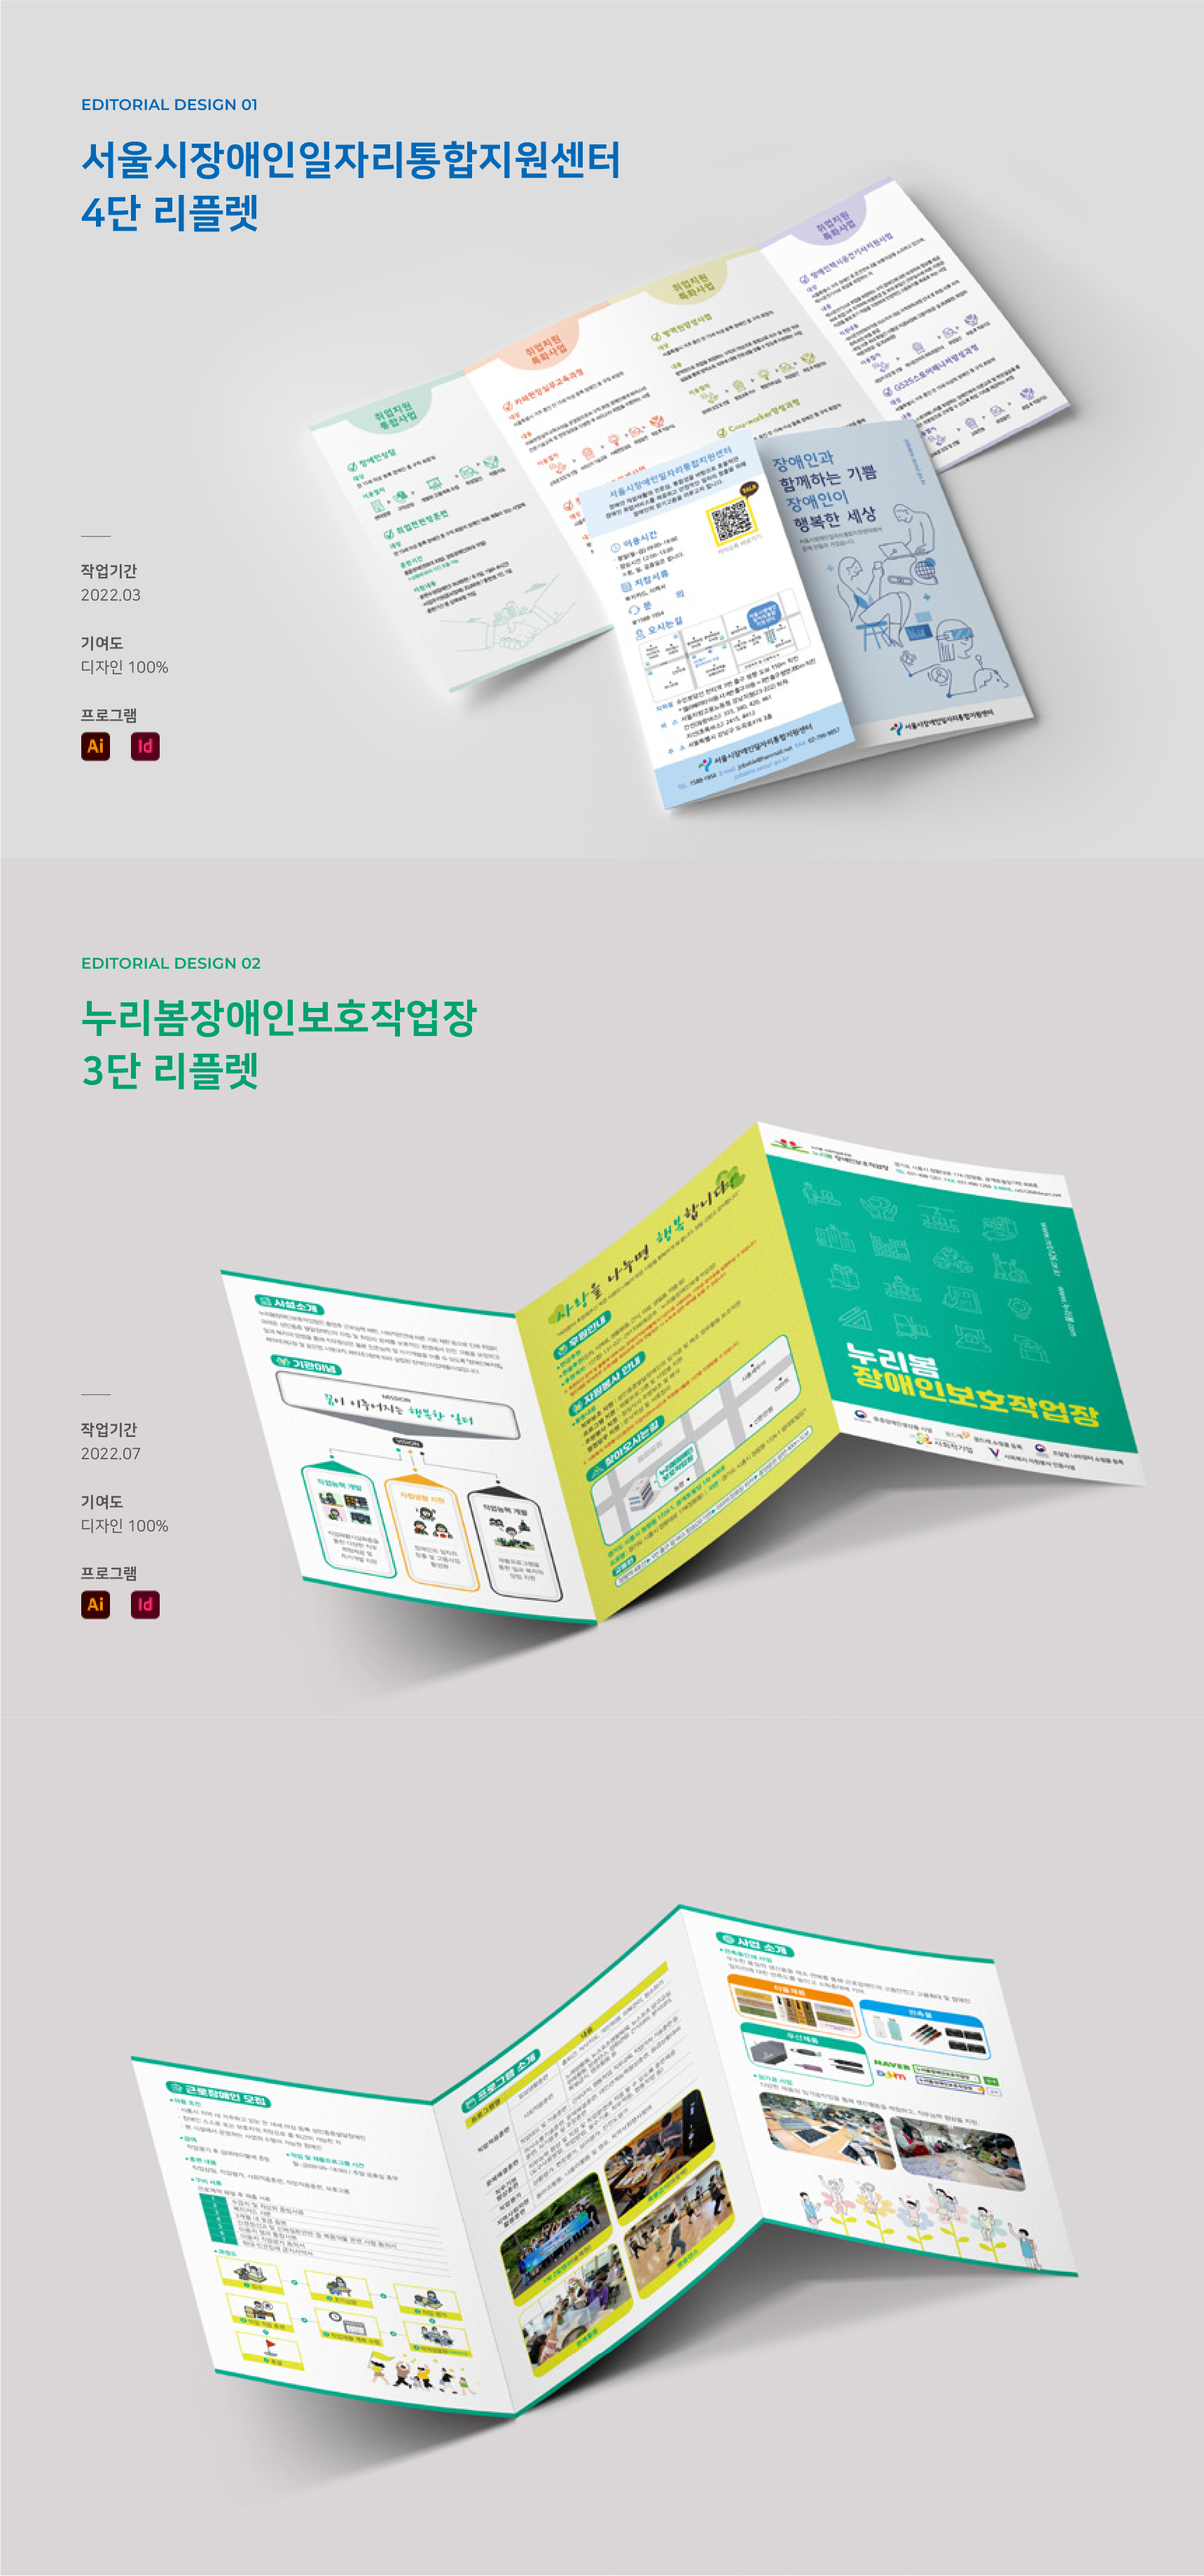
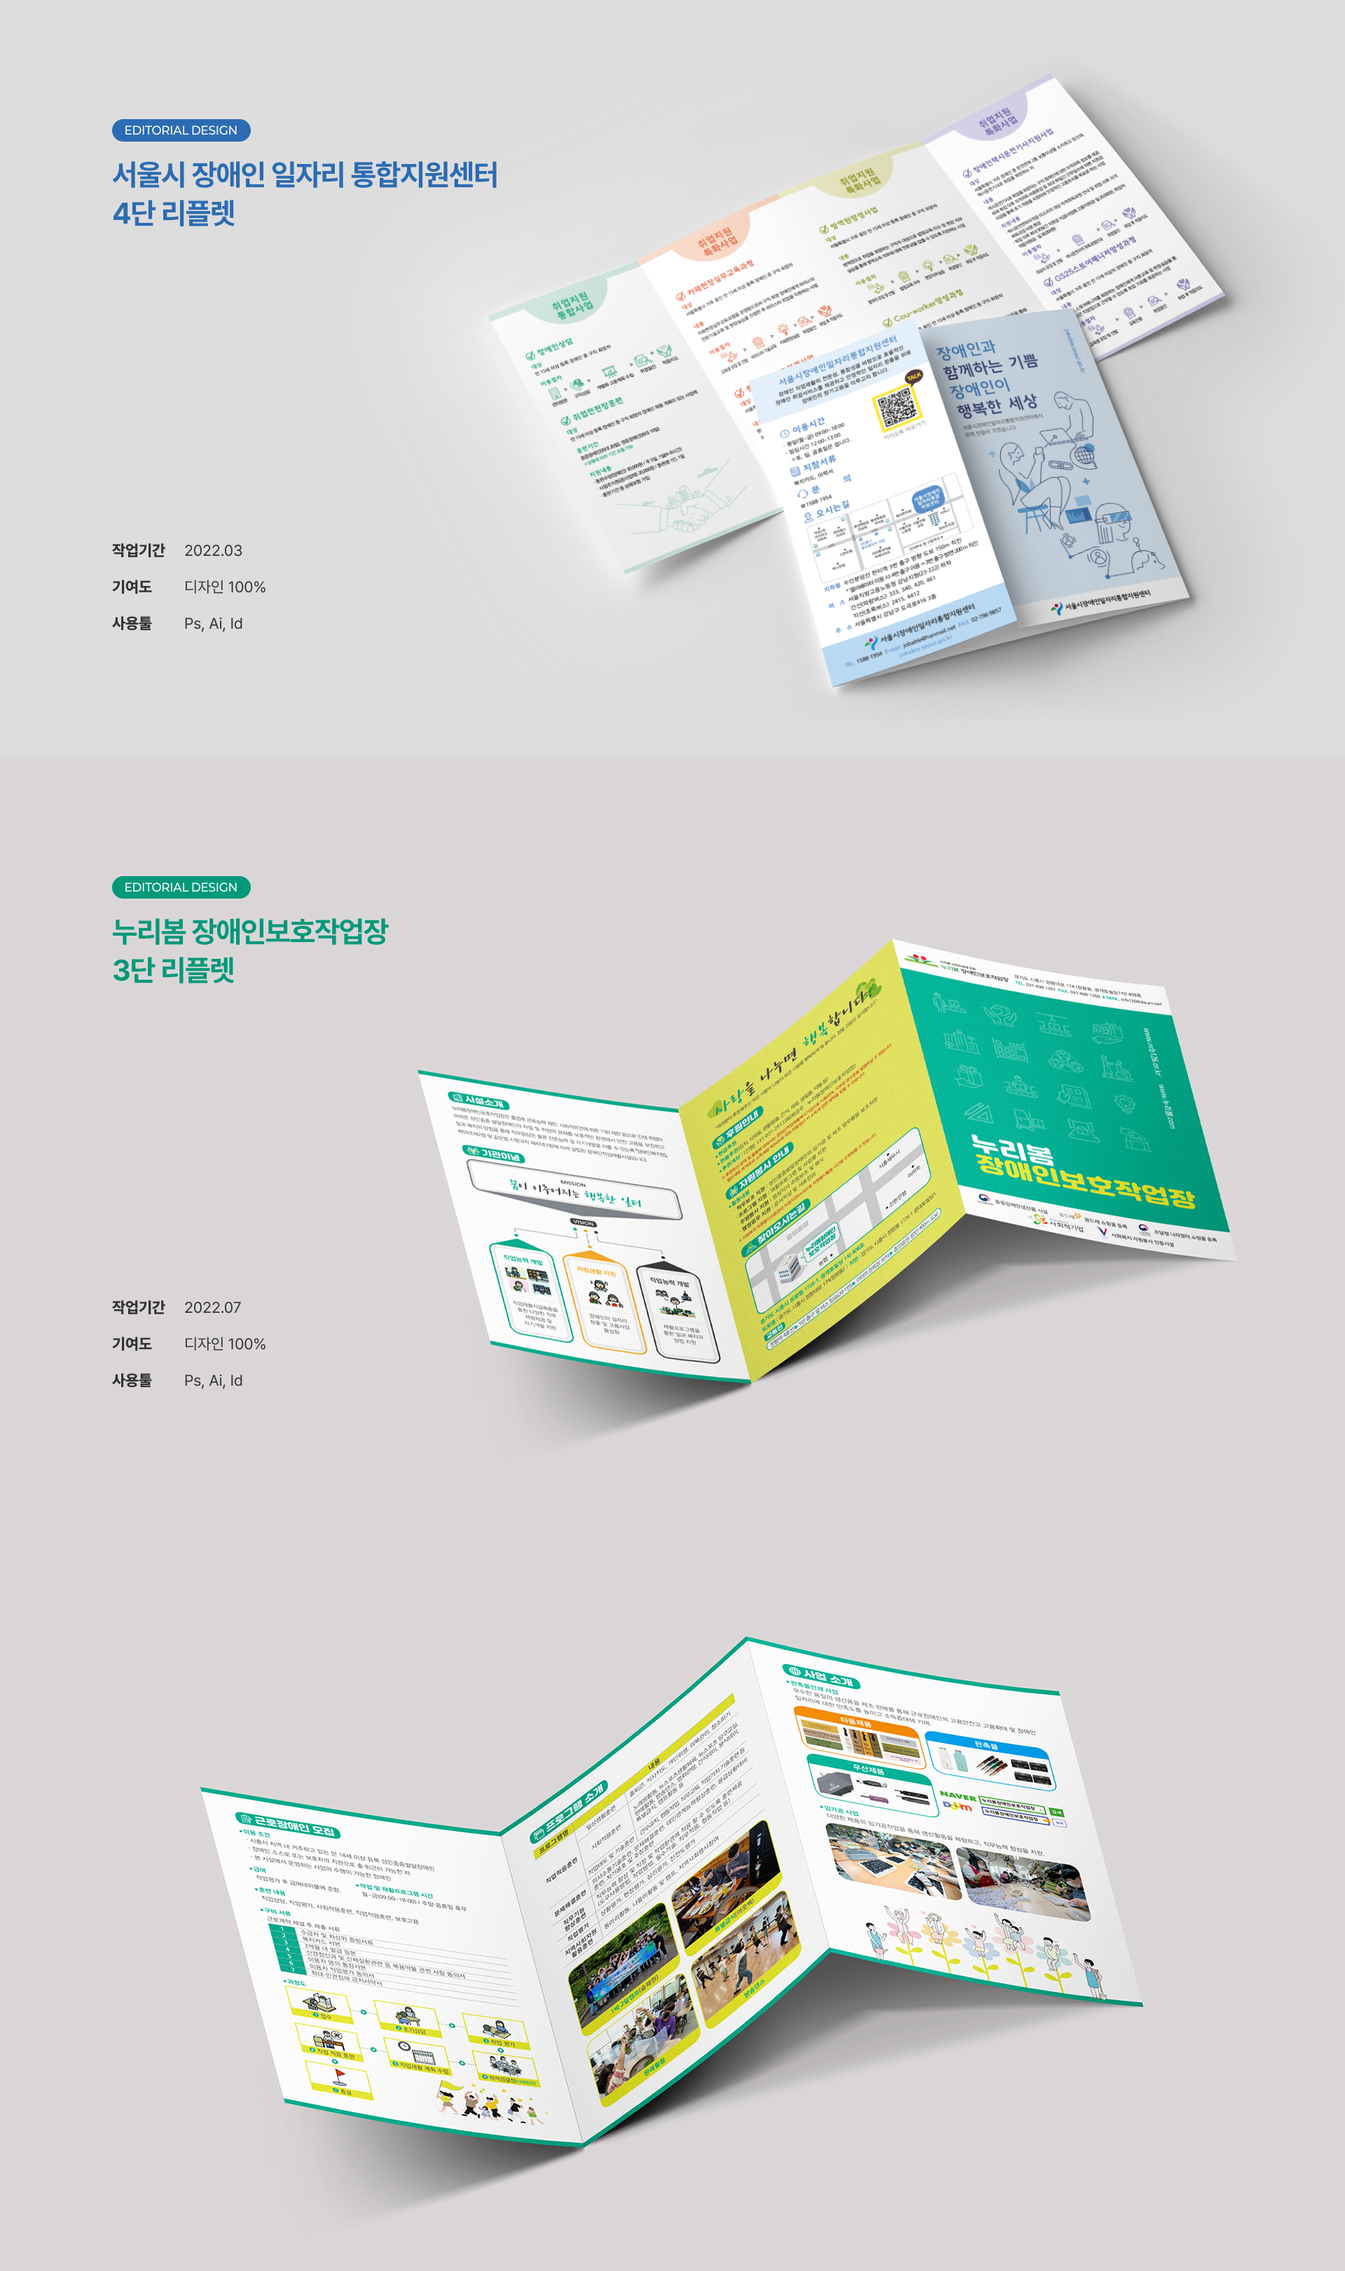
update: 웹디자인 콘텐츠 추가 및 페이지 수정

diff --git a/index.html b/index.html
@@ -26,7 +26,7 @@
           <li class="menu-item"><a href="#about">About</a></li>
           <li class="menu-item"><a href="#web-design">Web design</a></li>
           <li class="menu-item"><a href="#detailed-page-design">Detaied-page design</a></li>
-          <!-- <li class="menu-item"><a href="#editorial-design">Editorial Design</a></li> -->
+          <li class="menu-item"><a href="#editorial-design">Editorial Design</a></li>
         </ul>
       </nav>
     </header>
@@ -38,7 +38,7 @@
           <li><a href="#about">About</a></li>
           <li><a href="#web-design">Web design</a></li>
           <li><a href="#detailed-page-design">Detailed-page design</a></li>
-          <!-- <li><a href="#editorial-design">Editorial Design</a></li> -->
+          <li><a href="#editorial-design">Editorial Design</a></li>
         </ul>
       </nav>
     </aside>
@@ -236,10 +236,10 @@
           <button
             type="button"
             class="project-trigger"
-            data-title="리프성형외과"
+            data-title="리프성형외과 리디자인"
             data-period="2026.08"
-            data-tool="Figma, Photoshop, Illustrator"
-            data-rate="디자인 100%"
+            data-tool="Figma, Ps, Ai"
+            data-rate="웹 UI 디자인 100%"
             data-image="./src/assets/web_01_liff.jpg"
             data-link="https://liffps.com/"
           >
@@ -252,10 +252,10 @@
           <button
             type="button"
             class="project-trigger"
-            data-title="입주올인원"
+            data-title="입주올인원 신규디자인"
             data-period="2026.08"
-            data-tool="Figma, Photoshop, Illustrator"
-            data-rate="디자인 100%"
+            data-tool="Figma, Ps, Ai"
+            data-rate="웹 UI 디자인 100%"
             data-image="./src/assets/web_02_ipju.jpg"
             data-link="https://ipjuallinone.com/"
           >
@@ -268,10 +268,40 @@
           <button
             type="button"
             class="project-trigger"
+            data-title="에팡 제품페이지"
+            data-period="2026.08"
+            data-tool="Figma, Ps, Ai"
+            data-rate="웹 UI 디자인 100%"
+            data-image="./src/assets/web_03_epang.jpg"
+          >
+            <img src="./src/assets/web_03.png" alt="에팡 제품페이지" class="project-thumb" />
+          </button>
+          <p class="project-name">에팡 제품페이지</p>
+        </li>
+
+        <li class="project-item">
+          <button
+            type="button"
+            class="project-trigger"
+            data-title="후아고 제품페이지"
+            data-period="2026.08"
+            data-tool="Figma, Ps, Ai"
+            data-rate="웹 UI 디자인 100%"
+            data-image="./src/assets/web_04_hooago.jpg"
+          >
+            <img src="./src/assets/web_04.png" alt="후아고 제품페이지" class="project-thumb" />
+          </button>
+          <p class="project-name">후아고 제품페이지</p>
+        </li>
+
+        <li class="project-item">
+          <button
+            type="button"
+            class="project-trigger"
             data-title="MOEMO"
             data-period="2025.10 ~ 2025.11"
-            data-tool="Figma, Photoshop, Illustrator, AI"
-            data-rate="100%"
+            data-tool="Figma, Ps, Ai, GPT AI"
+            data-rate="앱 UI/UX 디자인 100%"
             data-image="./src/assets/project_01.jpg"
           >
             <img src="./src/assets/uxui_01.jpg" alt="MOEMO 감정일기 앱" class="project-thumb" />
@@ -293,8 +323,8 @@
             type="button"
             class="project-trigger"
             data-period="2021.05"
-            data-tool="Photoshop, Illustrator"
-            data-rate="100%"
+            data-tool="Ps, Ai"
+            data-rate="디자인 100%"
             data-title="상세페이지"
             data-image="./src/assets/detailed-page_01.jpg"
           >
@@ -308,8 +338,8 @@
             type="button"
             class="project-trigger"
             data-period="2021.05"
-            data-tool="Photoshop, Illustrator"
-            data-rate="100%"
+            data-tool="Ps, Ai"
+            data-rate="디자인 100%"
             data-title="상세페이지"
             data-image="./src/assets/detailed-page_02.jpg"
           >
@@ -323,8 +353,8 @@
             type="button"
             class="project-trigger"
             data-period="2021.05"
-            data-tool="Photoshop, Illustrator"
-            data-rate="100%"
+            data-tool="Ps, Ai"
+            data-rate="디자인 100%"
             data-title="상세페이지"
             data-image="./src/assets/detailed-page_03.jpg"
           >
@@ -338,8 +368,8 @@
             type="button"
             class="project-trigger"
             data-period="2021.05"
-            data-tool="Photoshop, Illustrator"
-            data-rate="100%"
+            data-tool="Ps, Ai"
+            data-rate="디자인 100%"
             data-title="상세페이지"
             data-image="./src/assets/detailed-page_04.jpg"
           >
@@ -353,8 +383,8 @@
             type="button"
             class="project-trigger"
             data-period="2021.05"
-            data-tool="Photoshop, Illustrator"
-            data-rate="100%"
+            data-tool="Ps, Ai"
+            data-rate="디자인 100%"
             data-title="상세페이지"
             data-image="./src/assets/detailed-page_05.jpg"
           >
@@ -368,8 +398,8 @@
             type="button"
             class="project-trigger"
             data-period="2021.05"
-            data-tool="Photoshop, Illustrator"
-            data-rate="100%"
+            data-tool="Ps, Ai"
+            data-rate="디자인 100%"
             data-title="상세페이지"
             data-image="./src/assets/detailed-page_06.jpg"
           >
@@ -383,8 +413,8 @@
             type="button"
             class="project-trigger"
             data-period="2021.05"
-            data-tool="Photoshop, Illustrator"
-            data-rate="100%"
+            data-tool="Ps, Ai"
+            data-rate="디자인 100%"
             data-title="상세페이지"
             data-image="./src/assets/detailed-page_07.jpg"
           >
@@ -395,7 +425,7 @@
       </ul>
     </section>
 
-    <!-- <section id="editorial-design" class="page editorial">
+    <section id="editorial-design" class="page editorial">
       <h2 class="section-title">
         <span class="sr-only">편집디자인 포트폴리오</span>
         EDITORIAL DESIGN
@@ -408,8 +438,8 @@
             class="project-trigger"
             data-title="리플렛"
             data-period="2022"
-            data-tool="Photoshop, Illustrator, InDesign"
-            data-rate="100%"
+            data-tool="Ps, Ai, Id"
+            data-rate="디자인 100%"
             data-image="./src/assets/project_07.jpg"
           >
             <img src="./src/assets/edit_02.jpg" alt="리플렛" class="project-thumb" />
@@ -422,9 +452,9 @@
             type="button"
             class="project-trigger"
             data-title="카달로그"
-            data-period="2021 ~ 2022"
-            data-tool="Photoshop, Illustrator, InDesign"
-            data-rate="100%"
+            data-period="2022.08"
+            data-tool="Ps, Ai, Id"
+            data-rate="디자인 100%"
             data-image="./src/assets/project_08.jpg"
           >
             <img src="./src/assets/edit_03.jpg" alt="카달로그" class="project-thumb" />
@@ -432,7 +462,7 @@
           <p class="project-name">카달로그</p>
         </li>
       </ul>
-    </section> -->
+    </section>
 
     <div class="modal">
       <div class="modal-overlay"></div>
@@ -451,7 +481,7 @@
             <ul class="project-meta">
               <li class="project-meta-item">작업기간 : 2025.10 ~ 2025.11</li>
               <li class="project-meta-item">작업툴 : Figma,Photoshop,Illustrator,AI</li>
-              <li class="project-meta-item">기여도 : 100%</li>
+              <li class="project-meta-item">기여도 : 디자인 100%</li>
             </ul>
           </div>
 

diff --git a/src/js/main.js b/src/js/main.js
@@ -504,6 +504,37 @@ scrollNext.addEventListener('click', () => {
 
 // 초기 로드
 window.addEventListener('load', () => {
+  const hash = window.location.hash.replace('#', '');
+
+  if (hash) {
+    const targetIndex = [...sections].findIndex((section) => section.id === hash);
+
+    if (targetIndex !== -1) {
+      currentIndex = targetIndex;
+
+      sections[currentIndex].scrollIntoView({
+        behavior: 'auto',
+        block: 'start',
+      });
+
+      updateLayoutState(currentIndex);
+
+      if (isWorkSection(sections[currentIndex])) {
+        prepareWorkSection(sections[currentIndex]);
+
+        requestAnimationFrame(() => {
+          sections[currentIndex].classList.add('is-title-only');
+
+          setTimeout(() => {
+            openWorkContent(sections[currentIndex]);
+          }, 900);
+        });
+      }
+
+      return;
+    }
+  }
+
   currentIndex = getCurrentSectionIndex();
   updateLayoutState(currentIndex);
 });

diff --git a/src/styles/main.css b/src/styles/main.css
@@ -1638,6 +1638,7 @@ aside a.is-active {
     gap: 2.6rem;
     justify-content: center;
     align-items: center;
+    flex-wrap: nowrap;
   }
 
   .info-profile {
